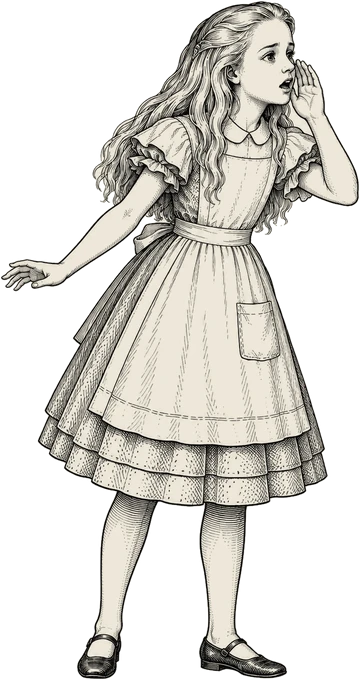
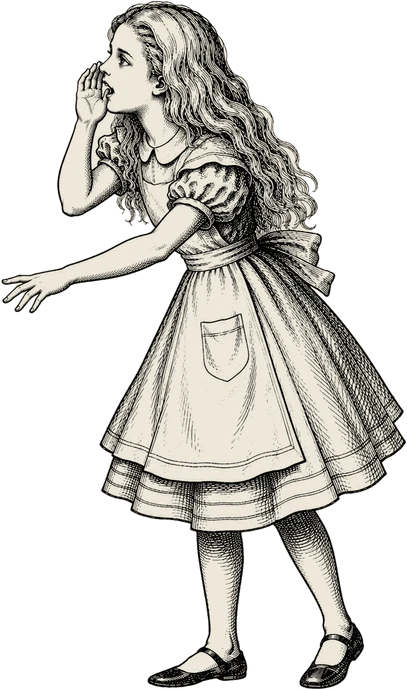
Chapter I: two more thoughts in the fall (the stairs at home, the globe); Chapter III: the new calling pose
Claude-Session: https://claude.ai/code/session_01XCrTmcLSNBEvemRhk5i2MQ

diff --git a/src/main.js b/src/main.js
@@ -67,7 +67,7 @@ async function main() {
     'hall/floor', 'hall/lamp', 'hall/curtain', 'hall/door_frame', 'hall/door_leaf',
     'props/key', 'props/bottle', 'props/cake', 'props/box', 'props/fan', // tools/small_props.py
     'ch1/leaf_heap', 'ch1/alice_land', 'ch1/garden', 'ch1/rabbit_run_away', 'ch1/rabbit_watch', 'ch1/rabbit_trot',
-    'walls/shaft_side', 'walls/passage', 'walls/passage_floor', 'walls/passage_ceiling', 'walls/hall', 'walls/hall_ceiling', 'vignettes/dinah', 'vignettes/bats', // tools/walls.py // tools/ch1_art.py
+    'walls/shaft_side', 'walls/passage', 'walls/passage_floor', 'walls/passage_ceiling', 'walls/hall', 'walls/hall_ceiling', 'vignettes/dinah', 'vignettes/bats', 'vignettes/stairs', 'vignettes/globe', // tools/walls.py // tools/ch1_art.py
     // Chapter II (tools/ch2_art.py): the Rabbit, the Mouse, the birds, props, the pool and the thoughts.
     ...['rabbit2_trot', 'rabbit2_start', 'rabbit2_away', 'mouse_swim', 'mouse_leap', 'mouse_bristle', 'mouse_away',
       'duck_swim', 'duck_stand', 'dodo_swim', 'dodo_stand', 'lory_swim', 'lory_stand', 'eaglet_swim', 'eaglet_stand',

diff --git a/src/scenes/shaft.js b/src/scenes/shaft.js
@@ -23,6 +23,8 @@ export const shaft = {
     };
     // "Dinah'll miss me very much to-night", and "Do cats eat bats?"
     const think = thoughts(group, [
+      { t0: at('brave') - 1.5, t1: at('true') + 1, art: ai['vignettes/stairs'].tex },          // "How brave they'll all think me at home!"
+      { t0: at('thousand') - 1.5, t1: at('longitude', 2) + 2, art: ai['vignettes/globe'].tex }, // "four thousand miles down … Latitude or Longitude"
       { t0: T.dinah - 0.5, t1: T.cats - 0.4, art: ai['vignettes/dinah'].tex },     // AI drawings (tools/ch1_art.py)
       { t0: T.cats - 0.4, t1: T.batsEatCats + 2, art: ai['vignettes/bats'].tex },
     ]);

diff --git a/tools/ch1_art.py b/tools/ch1_art.py
@@ -73,8 +73,15 @@ def main():
     # Thought vignettes (the same oval card treatment as Chapter II's).
     sys.path.insert(0, "tools")
     import ch2_art
-    for n in ("dinah", "bats"):
+    for n in ("dinah", "bats", "stairs"):
         ch2_art.vignette(f"vignette_{n}", n)
+    # The globe drawing has its caption printed under the oval: crop it off first.
+    with tempfile.TemporaryDirectory() as d:
+        Image.open("source/ai/vignette_globe.webp").crop((0, 0, 1254, 1100)).save(f"{d}/vignette_globe.png")
+        own = ch2_art.src
+        ch2_art.src = lambda name: f"{d}/{name}.png" if name == "vignette_globe" else own(name)
+        ch2_art.vignette("vignette_globe", "globe")
+        ch2_art.src = own
     # The garden inside the passage's far arch (source pixels, 1024x1536), paper-tinted.
     g = Image.open("source/ai/garden_through_door.png").convert("L").crop((392, 292, 806, 1080))
     rgb = (np.asarray(g, np.float32)[..., None] / 255.0 * PAPER).astype(np.uint8)

diff --git a/tools/compose_poses.py b/tools/compose_poses.py
@@ -69,7 +69,8 @@ DRAWN = {
     "argue": {"src": "source/ai/alice3_argue.webp", "h": 700, "bodyX": None},
     "comfits": {"src": "source/ai/alice3_comfits.webp", "h": 700, "bodyX": None},
     "bow": {"src": "source/ai/alice3_bow.webp", "h": 625, "bodyX": None},
-    "call": {"src": "source/ai/alice3_call.webp", "h": 680, "bodyX": None},
+    "call": {"src": "source/ai/alice3_call_v2.webp", "h": 690,  # second version (arm out, calling); alice3_call is the spare
+             "bodyX": None},
     "alone": {"src": "source/ai/alice3_alone.webp", "h": 500, "bodyX": None},
     "wonder": {"src": "source/ai/alice3_wonder.webp", "h": 700, "bodyX": None, "mirror": True},
     # Chapter I: on tiptoe, arms up (taller than standing: arms above her head).

diff --git a/docs/ASSETS_MASTER.md b/docs/ASSETS_MASTER.md
@@ -1,7 +1,7 @@
 # Master Asset List
 Generated by `tools/assets_master.py` from the chapter lists. **Don't edit by hand**: change the chapter list in `docs/ART_PROMPTS.md` (and the reasons in `docs/CHAPTER_NN_ASSETS.md`), then run the script.
 
-**Progress:** 78 of 353 images received. A box is ticked when a file with that name is in `source/ai/`.
+**Progress:** 80 of 353 images received. A box is ticked when a file with that name is in `source/ai/`.
 
 ## How to use this document
 1. Use **one ChatGPT conversation** for everything, so the style and the characters stay the same.
@@ -76,8 +76,8 @@ Use the **same ChatGPT conversation** as the turnaround and the earlier pieces s
 - [x] **30.** `vignette_dinah.png`: "Dinah, the same striped tabby cat as in the attached picture (attach `vignette_dinah_fire`), sitting alone on a parlour hearthrug at tea-time beside her saucer of milk, looking up wistfully at an empty little chair, a tea table with cups behind her." *(the fall: "Dinah'll miss me very much to-night … I hope they'll remember her saucer of milk at tea-time")*
 - [x] **31.** `vignette_bats.png`: "Dinah, the same striped tabby cat as in the attached picture (attach `vignette_dinah_fire`), sitting nose to nose with a small bat hanging upside down from a branch at dusk, the two of them eyeing each other doubtfully, as if each were wondering whether it might eat the other; a crescent moon behind." *(the fall: "Do cats eat bats? Do bats eat cats?")*
 - [ ] **32.** `vignette_candle.png`: "A candle flame going out, a thin curl of smoke."
-- [ ] **37.** `vignette_stairs.png`: "Alice's family at home, a father, mother and two older sisters in Victorian dress, gathered at the foot of a staircase, gazing up in admiration at a little girl tumbling down the stairs, quite unhurt; a tall house behind them." *(Chapter I, the fall: "How brave they'll all think me at home!")*
-- [ ] **38.** `vignette_globe.png`: "A schoolroom globe on its stand, cut open like an orange to show a dotted line running from the surface straight down to the centre of the earth, marked '4000 miles', with the lines of latitude and longitude drawn over it." *(the fall: "four thousand miles down … Latitude or Longitude")*
+- [x] **37.** `vignette_stairs.png`: "Alice's family at home, a father, mother and two older sisters in Victorian dress, gathered at the foot of a staircase, gazing up in admiration at a little girl tumbling down the stairs, quite unhurt; a tall house behind them." *(Chapter I, the fall: "How brave they'll all think me at home!")*
+- [x] **38.** `vignette_globe.png`: "A schoolroom globe on its stand, cut open like an orange to show a dotted line running from the surface straight down to the centre of the earth, marked '4000 miles', with the lines of latitude and longitude drawn over it." *(the fall: "four thousand miles down … Latitude or Longitude")*
 - [ ] **39.** `vignette_antipodes.png`: "A little girl in a pinafore popping out of the ground upside down at the far side of the earth, curtseying to a surprised Victorian lady with a parasol who walks with her head pointing downward; a signpost beside them, its board blank." *(the fall: "the people that walk with their heads downward … is this New Zealand or Australia?")*
 - [ ] **40.** `vignette_dinah_down.png`: "Dinah, the same striped tabby cat as in the attached picture (attach `vignette_dinah_fire`), floating down a dark well beside a falling little girl, reaching a paw toward a bat flying past; no mice anywhere." *(the fall: "I wish you were down here with me! There are no mice in the air … but you might catch a bat")*
 - [ ] **41.** `vignette_dream.png`: "A dreamy, softly drawn oval: a little girl walking hand in hand with her cat Dinah, the same striped tabby cat as in the attached picture (attach `vignette_dinah_fire`), who walks upright on its hind legs; the girl is earnestly asking it something." *(the fall: "dreaming that she was walking hand in hand with Dinah … did you ever eat a bat?")*

diff --git a/PROVENANCE.md b/PROVENANCE.md
@@ -129,3 +129,6 @@ Every shipped asset is listed here with its source. AI-generated or AI-modified 
 | ai_vignette_bats | `public/art/ai/vignettes/bats.webp` | AI | Generated in the same conversation (docs/ASSETS_MASTER.md, Chapter I prompt 31); original in `source/ai/vignette_bats.webp` | OpenAI ChatGPT (GPT-6 chat); OpenAI image generation, exact image model not disclosed; received 2026-10-12 | Whole image generated. Paper-tinted, fitted to the thought oval (`tools/ch1_art.py`). Used in Chapter I, the fall. | 2026-10-12 | Owner (generated), Claude Code (processed) |
 | ai_hall_ceiling | `public/art/ai/walls/hall_ceiling.webp` | AI | Generated in the same conversation (docs/ASSETS_MASTER.md, Chapter I prompt 42); original in `source/ai/hall_ceiling.webp` | OpenAI ChatGPT (GPT-6 chat); OpenAI image generation, exact image model not disclosed; received 2026-10-12 | Whole image generated. Paper-tinted; repeats every 3 m on the hall ceiling (`tools/walls.py`). Chapters I, II, III, VII. | 2026-10-12 | Owner (generated), Claude Code (processed) |
 | ai_rabbit_sheet | `public/art/ai/ch1/rabbit_watch.webp`, `rabbit_trot.webp`, `rabbit_back.webp` | AI | The White Rabbit after Tenniel (owner's sheet, 2026-10-12); original in `source/ai/rabbit_sheet.webp` | OpenAI ChatGPT (GPT-6 chat); OpenAI image generation, exact image model not disclosed; received 2026-10-12 | Whole image generated. Split into three figures, cut out and paper-tinted; the eyes tinted pink (COLOR.md) (`tools/ch1_art.py`). Used in Chapter I: watch (standing) and trot (moving) on the riverbank and in the passage; the back view is kept for later. | 2026-10-12 | Owner (generated), Claude Code (processed) |
+| ai_vignette_stairs | `public/art/ai/vignettes/stairs.webp` | AI | Generated in the same conversation (docs/ASSETS_MASTER.md, Chapter I prompt 37); original in `source/ai/vignette_stairs.webp` | OpenAI ChatGPT (GPT-6 chat); OpenAI image generation, exact image model not disclosed; received 2026-10-12 | Whole image generated (with its own speech bubble). Paper-tinted, fitted to the thought oval (`tools/ch1_art.py`). Used in Chapter I, the fall. | 2026-10-12 | Owner (generated), Claude Code (processed) |
+| ai_vignette_globe | `public/art/ai/vignettes/globe.webp` | AI | Generated in the same conversation (docs/ASSETS_MASTER.md, Chapter I prompt 38); original in `source/ai/vignette_globe.webp` | OpenAI ChatGPT (GPT-6 chat); OpenAI image generation, exact image model not disclosed; received 2026-10-12 | Whole image generated. The caption printed below the oval cropped off; paper-tinted, fitted to the thought oval (`tools/ch1_art.py`). Used in Chapter I, the fall. | 2026-10-12 | Owner (generated), Claude Code (processed) |
+| ai_alice3_call_v2 | `public/art/ai/poses/call.webp` | AI | Second version of Chapter III prompt 7; original in `source/ai/alice3_call_v2.webp` | OpenAI ChatGPT (GPT-6 chat); OpenAI image generation, exact image model not disclosed; received 2026-10-12 | Whole image generated. Cut out, paper-tinted and scaled to the standing Alice (`tools/compose_poses.py`). Replaces the first version (kept as a spare). | 2026-10-12 | Owner (generated), Claude Code (processed) |
